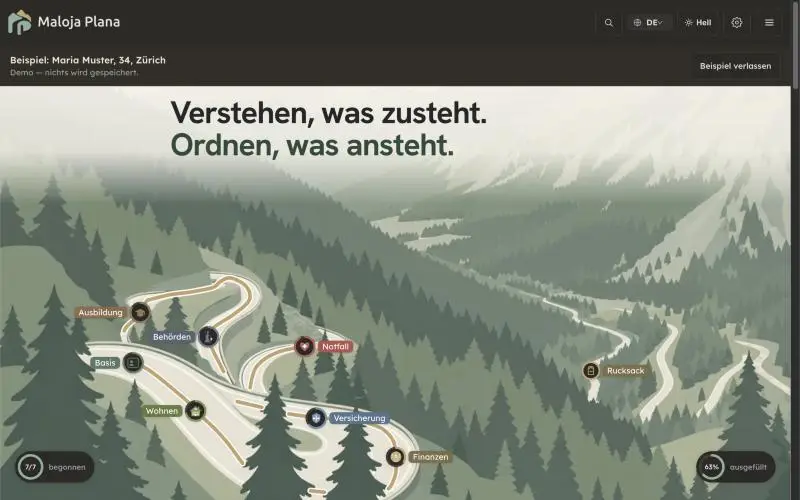
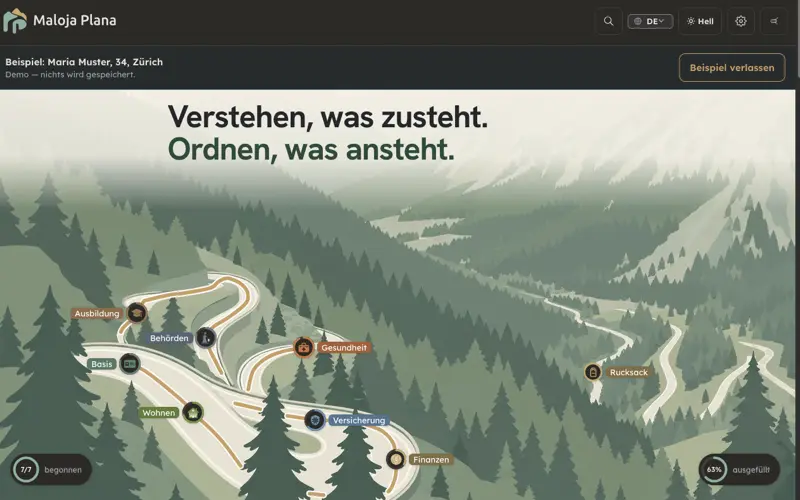
Startseite: Design-Durchgang A–M — eine Seitenfarbe, Stock im Passbild-Stil, ruhiger Ausklang
Stebler Studios 10.11.2026 «Ja, alle so» (Befunde stebler-studios/analysen/maloja-startseite-design-durchgang-2026-11-10.md):
A eine Seitenfarbe Creme #FCF0E4 (vorher vier Töne), Flächen #FFF8F0, Kontraste gemessen
B Stock, Weglinie und dunkle Schicht blenden im Ausklang aus
C Stock 86 % hoch und mittig (Desktop wie Handy)
D Handy: Textfläche frei vom Stock · E «KI-gemalt» links unten
F Karte von oben auf Inhaltsbreite, Linien laufen seitlich weich aus · G keine doppelte Luft vor der Papier-Karte
H Reiter «Kantone» · I gewählter Reiter rückt am Handy in Sicht · J Trennpunkt hängt am vorderen Wort
K Hero unter 960 px einspaltig · L Laptop-Bild neu aus dem Beispiel (Gesundheit statt Notfall)
M Stock-Probe übernommen (flach, Aufkleber rund, grosse Zeichen weiss)
Dazu: Hero-Nebenknöpfe im dunklen Modus hell, Papier-Höhenlinien im dunklen Modus umgekehrt.
Brand Book §7e nachgeführt, Wächter in vorstellungSeite.test.js.

diff --git a/website/index.html b/website/index.html
@@ -15,8 +15,8 @@
   <meta name="referrer" content="strict-origin-when-cross-origin">
   <meta name="robots" content="index, follow">
   <meta name="author" content="Stebler Studios">
-  <!-- Browserleiste je Farbschema (Granit, Brand Book §2) -->
-  <meta name="theme-color" content="#F2F2F0" media="(prefers-color-scheme: light)">
+  <!-- Browserleiste je Farbschema (hell: Creme des Passbilds, §7e A; dunkel: Granit) -->
+  <meta name="theme-color" content="#FCF0E4" media="(prefers-color-scheme: light)">
   <meta name="theme-color" content="#22211F" media="(prefers-color-scheme: dark)">
   <title>Maloja Plana — Schweizer Lebensordner</title>
   <meta name="description" content="Steuern, Prämienverbilligung, Vorsorge und Notfallkarte an einem Ort. Kostenlos, ohne Konto — was Sie eingeben, bleibt auf Ihrem Gerät.">
@@ -102,9 +102,14 @@
     @font-face{ font-family:'Hanken Grotesk'; src:url('/fonts/hanken-grotesk-latin-700-normal.woff2') format('woff2'); font-weight:700; font-display:swap }
     *{ margin:0; padding:0; box-sizing:border-box }
     :root{
-      --bg:#F2F2F0; --flaeche:#FBFBFA; --text:#24262A; --leise:#575B61;  /* dunkler als vorher (#6A6E74): Kleintext liest sich ruhiger */
-      --rand:#E0DDD8;
-      --himmel:#F4F0E6;                 /* Himmel der Landschaft — der Einstieg bleibt immer hell */
+      /* A · Eine Seitenfarbe (Design-Durchgang 10.11.2026): die Creme des Passbilds, «unser Stil». Vorher vier Töne
+         (#F2F2F0 Seite, #FCF0E4 Ausklang, #F4F0E6 Hero-Schleier, #FBFBFA Leiste) — man sah die Naht nach der Reise.
+         Flächen darauf (Karten, Leiste, Knöpfe) ein warmes Papier #FFF8F0. Kontraste gemessen: Text 13,5:1, leise 6,1:1,
+         Gold 5,3:1. Die App bleibt Granit. */
+      --bg:#FCF0E4; --flaeche:#FFF8F0; --text:#24262A; --leise:#575B61;
+      --rand:#E6DACB;
+      --himmel:#FCF0E4;                 /* Himmel der Landschaft = Seitenfarbe — der Einstieg bleibt immer hell */
+      --schleier:252,240,228;           /* dieselbe Creme als RGB für die hellen Schichten über dem Bild */
       --gehaeuse:#1B1A18; --gehaeuse-rand:#3A3936; --insel:#0E0E0D; --schirm:#22211F;
       --radius-m:12px;
       --abstand-m:32px; --abstand-l:96px;  /* 96 = 64 × 1.5, Kapitelstufe der Startseite (§7a B) */
@@ -180,10 +185,11 @@
     .pass h1 .zweite{ font-weight:600; color:#4E5258 }
     .pass .vorspann{ font-size:19px; max-width:28em; margin-top:22px; color:#3E4247 }
     .pass .fakten{ display:flex; flex-wrap:wrap; gap:6px 18px; margin-top:20px; font-size:15px; color:#24262A }
-    .pass .fakten span::before{ content:"·"; margin-right:18px; color:var(--sand-tief) }
-    .pass .fakten span:first-child::before{ content:none }
+    /* J · Der Trennpunkt hängt am vorderen Wort: bricht die Zeile um, beginnt die neue nie mit «·». */
+    .pass .fakten span{ white-space:nowrap }
+    .pass .fakten span:not(:last-child)::after{ content:"·" / ""; margin-left:18px; color:var(--sand-tief) }
     .pass .beta{ font-size:15px; color:#3E4247; margin-top:10px }
-    .pass .knopf.zweit{ background:#FBFBFA }
+    .pass .knopf.zweit{ background:#FFF8F0 }   /* der Hero bleibt immer hell, auch im dunklen Modus */
     /* Übergang zur Reise: Nebenknopf (leer, Rand sandDeep) auf heller Fläche, damit er auch über dem Bild lesbar bleibt. */
     .pass-weiter{ grid-column:1 / -1; justify-self:start }
     .pass-weiter::after{ content:"↓" / "" }
@@ -225,7 +231,7 @@
     @keyframes wechsel{ 0%{opacity:0} 6%{opacity:1} 20%{opacity:1} 26%{opacity:0} 100%{opacity:0} }
     #anhalten:checked ~ .geraete-bild .folge img, .buehne:hover .folge img{ animation-play-state:paused }
     .unter-telefon{ display:flex; flex-wrap:wrap; justify-content:center; gap:4px 14px; margin-top:14px;
-      font-size:13px; color:#3E4247; text-align:center; background:rgba(244,240,230,.82); padding:4px 12px; border-radius:20px }
+      font-size:13px; color:#3E4247; text-align:center; background:rgba(var(--schleier),.82); padding:4px 12px; border-radius:20px }
     .schalter{ cursor:pointer; text-decoration:underline; text-underline-offset:2px; padding:10px 2px; margin:-10px 0 }
     #anhalten:checked ~ .unter-telefon .schalter::before{ content:"✓ " / "" }
     #anhalten:focus-visible ~ .unter-telefon .schalter{ outline:2px solid var(--sand-tief); outline-offset:3px }
@@ -294,13 +300,13 @@
        den Kehren (weisse Schrift, mind. 62 % unter dem Text). Das Skript schaltet über data-hier um. */
     .reise-buehne::before, .reise-buehne::after{ content:""; position:absolute; inset:0; z-index:3; pointer-events:none }
     .reise-buehne::before{ opacity:0;
-      background:linear-gradient(180deg, rgba(244,240,230,.92) 0%, rgba(244,240,230,.4) 24%, rgba(244,240,230,0) 42%),
-                 linear-gradient(90deg, rgba(244,240,230,.94) 0%, rgba(244,240,230,.86) 44%, rgba(244,240,230,0) 70%) }
+      background:linear-gradient(180deg, rgba(var(--schleier),.92) 0%, rgba(var(--schleier),.4) 24%, rgba(var(--schleier),0) 42%),
+                 linear-gradient(90deg, rgba(var(--schleier),.94) 0%, rgba(var(--schleier),.86) 44%, rgba(var(--schleier),0) 70%) }
     .reise-buehne::after{
       background:linear-gradient(270deg, rgba(18,18,16,.68) 0%, rgba(18,18,16,.62) 44%, rgba(18,18,16,0) 66%),
                  linear-gradient(90deg, rgba(18,18,16,.32) 0%, rgba(18,18,16,0) 22%) }
     .js .reise-buehne[data-hier="-1"]::before{ opacity:1 } .js .reise-buehne[data-hier="-1"]::after{ opacity:0 }
-    html:not(.js) .reise-anfang{ background:rgba(244,240,230,.93) }
+    html:not(.js) .reise-anfang{ background:rgba(var(--schleier),.93) }
     .reise-wolken{ z-index:3 } .reise-linie, .reise-stock, .reise-quelle{ z-index:4 }
     .reise-linie{ position:absolute; left:clamp(24px, 5vw, 64px); top:14vh; height:70vh; width:auto; aspect-ratio:60/600; overflow:visible }
     .reise-linie .weg{ fill:none; stroke:#FBFBFA; stroke-width:2.4; stroke-linecap:round; stroke-dasharray:.1 9; opacity:.85 }
@@ -313,12 +319,12 @@
     .reise-linie .ort text{ fill:#FBFBFA; font-size:15px; font-weight:600; letter-spacing:.04em; paint-order:stroke; stroke:rgba(20,20,18,.7); stroke-width:4px; stroke-linejoin:round }
     /* D · Der Stock dreht sich um die eigene Achse: das Skript verschiebt Nägel und Maserung je nach Drehwinkel
        (vorne breit, an der Seite schmal, hinten weg). Kein Heranfahren, kein Zoom. */
-    .reise-stock{ position:absolute; left:50%; top:0; height:100%; width:auto; aspect-ratio:120/700; overflow:visible;
-      margin-left:calc(100vh * -120 / 700 / 2); margin-left:calc(100svh * -120 / 700 / 2) }
-    /* PROBE Passbild-Stil: zwei flache Töne wie die Hänge im Passbild, keine Maserung, kein Glanz */
+    /* C · 86 % der Bildhöhe, mittig — wie am Handy (vorher bildhoch, die Kappe stiess oben an und er wirkte wie ein Balken). */
+    .reise-stock{ position:absolute; left:50%; top:7%; height:86%; width:auto; aspect-ratio:120/700; overflow:visible;
+      margin-left:calc(86vh * -120 / 700 / 2); margin-left:calc(86svh * -120 / 700 / 2) }
+    /* M · Passbild-Stil (Stebler Studios 10.11.2026): zwei flache Töne wie die Hänge im Passbild, keine Maserung, kein Glanz */
     .reise-stock .holz{ fill:#C9B48E } .reise-stock .schatten{ fill:#A8936E }
     .reise-stock .riemen{ fill:#486054 } .reise-stock .spitze{ fill:#546C60 }
-    /* (Riemen und Spitze: oben in der Probe neu gesetzt) */
     .nagel{ transform-box:fill-box; transform-origin:50% 50% }
     .nagel .schild > *{ fill:#FCF0E4; stroke:inherit; stroke-width:3 }
     /* Auf jedem Stocknagel das Kapitel-Zeichen der App in der Kapitelfarbe, auf heller Plakette mit farbigem Rand
@@ -326,7 +332,12 @@
     .js .nagel{ opacity:0 } .js .nagel.dran{ opacity:1 }
     .js .reise-buehne[data-hier="-1"] .reise-stock, .js .reise-buehne[data-hier="-1"] .reise-linie,
     .js .reise-buehne[data-hier="-1"] .reise-wolken, .js .reise-buehne[data-hier="-1"] .reise-quelle{ opacity:0 }
-    .reise-quelle{ position:absolute; right:12px; bottom:10px; font-size:13px; color:#FBFBFA; background:rgba(20,20,18,.72); padding:2px 8px; border-radius:6px }
+    /* B · Nach der letzten Kehre gehen Stock, Weglinie und Bildhinweis mit dem Bild weg, statt über dem Ausklang zu schweben. */
+    .js .reise-buehne[data-ende] .reise-stock, .js .reise-buehne[data-ende] .reise-linie,
+    .js .reise-buehne[data-ende] .reise-wolken, .js .reise-buehne[data-ende] .reise-quelle,
+    .js .reise-buehne[data-ende]::after{ opacity:0 }
+    /* E · links unten: rechts lag das Schild am Handy unter der Stockspitze */
+    .reise-quelle{ position:absolute; left:12px; bottom:10px; font-size:13px; color:#FBFBFA; background:rgba(20,20,18,.72); padding:2px 8px; border-radius:6px }
     .reise-ablauf{ position:relative; z-index:5; margin-top:-100vh; margin-top:-100svh }
     .reise{ padding-top:0; color:#FBFBFA }
     /* Ausklang: nach der letzten Kehre verläuft das Bild ruhig ins Papier der Seite, statt hart abzubrechen. */
@@ -340,18 +351,25 @@
     .pass-blick img, .pass-band img{ display:block; width:100%; height:auto }
     .pass-band{ position:relative; margin:64px 0 }
     .pass-band .quelle{ font-size:13px; color:var(--leise); padding-top:8px }
-    .pass-band-karte{ margin:96px 0 0 }
+    /* Im dunklen Modus: die Papier-Linien (Tinte) hell umkehren, sonst verschwinden sie im dunklen Grund. */
+    @media (prefers-color-scheme: dark){ .pass-band img{ filter:invert(1) hue-rotate(180deg) brightness(.9) } }
+    /* G · Vor der Karte steht schon die Luft des Schlussabschnitts (96 px) — nicht noch einmal 96. */
+    .pass-band-karte{ margin:0 }
     .pass-band-karte img{ aspect-ratio:280/130; object-fit:cover }
     .pass-karte{ position:relative; background:#7E8F7B; color:#F6F2E8 }
-    .pass-karte-bild{ position:relative; aspect-ratio:280/130 }
+    /* F · Die Karte auf Inhaltsbreite (vorher randlos 1280 px und mehr); das Salbei bleibt randlos, die Linien laufen
+       an den Seiten weich aus statt mit harter Kante. */
+    .pass-karte-bild{ position:relative; aspect-ratio:280/130; max-width:1040px; margin:0 auto;
+      -webkit-mask-image:linear-gradient(90deg, transparent, #000 8%, #000 92%, transparent); mask-image:linear-gradient(90deg, transparent, #000 8%, #000 92%, transparent) }
     .pass-karte-bild img{ position:absolute; inset:0; width:100%; height:100%; object-fit:cover; object-position:50% 50%; display:block }
-    .pass-karte .hoehe{ position:absolute; left:57.7%; top:27%; margin:-10px 0 0 14px; font-size:15px; font-weight:600; letter-spacing:.02em;
+    .pass-karte .hoehe{ position:absolute; left:57.7%; top:27%; margin:-10px 0 0 14px; font-size:16px; font-weight:600; letter-spacing:.02em;
       text-shadow:0 0 6px rgba(85,104,90,.9) }
     .pass-karte figcaption{ display:flex; flex-wrap:wrap; justify-content:space-between; gap:4px 16px; padding-top:12px; font-size:15px }
     .pass-karte .quelle{ font-size:13px; opacity:.85 }
     .pass-karte-ende{ height:16vh; background:linear-gradient(#7E8F7B, var(--bg)) }
     @media (max-width:760px){
       .pass-karte-bild{ aspect-ratio:4/3 }
+      .pass-karte-bild{ -webkit-mask-image:none; mask-image:none }
       .pass-karte .hoehe{ left:62.5% }   /* gleicher Punkt bei 4:3, object-fit:cover um die Mitte (Rechnung im Brand Book §7e) */
     }
     /* B–D · Kehre: Zahl und Text rechts neben dem Stock */
@@ -361,17 +379,17 @@
     .reise-text{ max-width:28rem; text-shadow:0 1px 14px rgba(0,0,0,.45) }
     /* Statt einer grossen Zahl steht gross das Kapitel-Zeichen der App (wie Fujis grosse Höhenzahl): in der Kapitelfarbe
        auf heller Plakette, Ecke 16 px (Karte, Brand Book §7a C). */
-    .reise-gross{ width:clamp(84px, 9vw, 120px); aspect-ratio:1; color:#FBFBFA; margin:0 0 16px }   /* PROBE: ohne Kachel, weiss wie der Text (Rand verworfen) */
+    .reise-gross{ width:clamp(84px, 9vw, 120px); aspect-ratio:1; color:#FBFBFA; margin:0 0 16px }   /* M · ohne Kachel, weiss wie der Text (Rand verworfen, Stebler Studios 10.11.) */
     /* Zeichen mit weiss gezeichneten Details (Fünfliber, Haus): Details umkehren, sonst bleibt eine leere weisse Fläche */
     .reise-gross [fill="white"]{ fill:#2E3A33 } .reise-gross [stroke="white"]{ stroke:#2E3A33 }
     .reise-gross svg{ width:100%; height:auto; aspect-ratio:1; display:block }
     .reise-text .name{ display:block; font-size:15px; font-weight:600; color:#FBFBFA; margin-bottom:6px }
     .reise-text h3{ font-size:clamp(23px, 2.4vw, 28px); line-height:1.2; font-weight:700; letter-spacing:-0.01em; margin-bottom:10px }
     .reise-text p{ font-size:19px; line-height:1.55; color:#FBFBFA }
-    /* Knöpfe auf dem Bild: Nebenknopf auf Papier (deckend #FBFBFA, Schrift und Rand sandDeep, 10 px). Kein Milchglas (§7e). */
+    /* Knöpfe auf dem Bild: Nebenknopf auf Papier (deckend #FFF8F0, Schrift und Rand sandDeep, 10 px). Kein Milchglas (§7e). */
     .reise-knoepfe{ display:flex; flex-wrap:wrap; gap:10px; margin-top:22px }
     .reise-knoepfe a{ display:inline-flex; align-items:center; min-height:44px; padding:10px 20px; border-radius:var(--radius-knopf); text-decoration:none;
-      font-size:15px; font-weight:600; color:#7A5F30; border:1px solid #7A5F30; background:#FBFBFA; text-shadow:none }
+      font-size:15px; font-weight:600; color:#7A5F30; border:1px solid #7A5F30; background:#FFF8F0; text-shadow:none }
     .reise-knoepfe a:hover{ color:#7A5F30; background:#F2EDE3 }
     .reise-knoepfe a:focus-visible{ outline:2px solid #FBFBFA; outline-offset:3px; box-shadow:0 0 0 5px #24262A }
     .reise-knoepfe .weiter::after{ content:"↓" / ""; margin-left:8px }
@@ -392,11 +410,12 @@
       .reise-wolken{ display:none }
     }
     @media (max-width:760px){
-      .reise-buehne::before{ background:linear-gradient(180deg, rgba(244,240,230,.95) 0%, rgba(244,240,230,.9) 52%, rgba(244,240,230,.35) 78%, rgba(244,240,230,0) 92%) }
+      .reise-buehne::before{ background:linear-gradient(180deg, rgba(var(--schleier),.95) 0%, rgba(var(--schleier),.9) 52%, rgba(var(--schleier),.35) 78%, rgba(var(--schleier),0) 92%) }
       .reise-buehne::after{ background:linear-gradient(0deg, rgba(18,18,16,.74) 0%, rgba(18,18,16,.6) 40%, rgba(18,18,16,0) 70%) }
-      .reise-stock{ left:auto; right:6px; margin-left:0; height:86%; top:7% }
+      /* D · Stock ein Stück über den rechten Rand, damit die Textfläche ihn nicht mehr überdeckt (vorher etwa 12 px) */
+      .reise-stock{ left:auto; right:-30px; margin-left:0; height:86%; top:7% }
       .reise-linie{ display:none }
-      .reise-station{ align-items:center; padding:10vh 76px 10vh 16px }
+      .reise-station{ align-items:center; padding:10vh 84px 10vh 16px }
       .reise-gross{ width:64px; margin-bottom:12px }
       /* Am Handy wandert der Text durchs ganze Bild, auch über hellen Himmel: darum eine eigene dunkle Fläche (78 %, ohne Milchglas). */
       .reise-text{ background:rgba(20,20,18,.78); padding:18px 18px 20px; border-radius:16px }
@@ -471,18 +490,18 @@
     .fuss ul{ list-style:none } .fuss li a{ display:inline-block; padding:6px 0 }
     .fuss-zeile{ margin-top:32px; padding-top:16px; border-top:1px solid var(--rand); font-size:13px }
     .fuss .vertrauen{ display:flex; flex-wrap:wrap; gap:4px 16px; color:var(--text) }
-    .fuss .vertrauen span::before{ content:"·"; margin-right:16px; color:var(--sand-tief) }
-    .fuss .vertrauen span:first-child::before{ content:none }
+    .fuss .vertrauen span{ white-space:nowrap }
+    .fuss .vertrauen span:not(:last-child)::after{ content:"·" / ""; margin-left:16px; color:var(--sand-tief) }
 
     /* Zum Inhalt springen (wie in der App, .mp-skip-link): erst beim Fokus sichtbar. */
     .sprung{ position:absolute; z-index:20; left:16px; top:-80px; padding:10px 16px; border-radius:var(--radius-knopf);
-      background:#FBFBFA; color:#24262A; font-weight:600 }
+      background:#FFF8F0; color:#24262A; font-weight:600 }
     .sprung:focus{ top:12px }
     main:focus{ outline:none }
     html{ scroll-padding-top:64px }  /* Sprungziele landen unter der Leiste */
 
     /* B/C · Leiste: Papier mit Haarlinie (kein Milchglas), 56 px. Erscheinen 250 ms, Verschwinden ⅔ davon (§7a E). */
-    .leiste{ position:fixed; z-index:8; top:0; left:0; right:0; background:#FBFBFA; color:#24262A; border-bottom:1px solid #E0DDD8;
+    .leiste{ position:fixed; z-index:8; top:0; left:0; right:0; background:#FFF8F0; color:#24262A; border-bottom:1px solid #E6DACB;
       transform:translateY(-100%); visibility:hidden }
     .leiste[data-zustand="seite"]{ transform:none; visibility:visible }
     .leiste-innen{ display:flex; align-items:center; gap:20px; min-height:56px }
@@ -501,6 +520,9 @@
     }
     @media (max-width:960px){
       .pass h1{ font-size:38px }
+      /* K · Unter 960 px eine Spalte: daneben brach der Titel in vier Zeilen. Die Geräte stehen unter dem Text. */
+      .pass{ grid-template-columns:1fr; gap:32px; padding-top:112px; align-items:start }
+      .geraete{ justify-self:start }
       .holen{ grid-template-columns:1fr 1fr }
       .liste{ grid-template-columns:1fr 1fr }
     }
@@ -514,7 +536,7 @@
       .kopf nav, .leiste-links{ width:100%; gap:8px; overflow-x:auto; scrollbar-width:none; padding:4px 18% 4px 4px;
         -webkit-mask-image:linear-gradient(90deg, #000 82%, transparent); mask-image:linear-gradient(90deg, #000 82%, transparent) }
       .kopf nav a, .leiste-links a{ flex:none; display:inline-flex; align-items:center; min-height:44px; padding:0 14px;
-        border:1px solid rgba(36,38,42,.28); border-radius:var(--radius-knopf); background:rgba(251,251,250,.75); text-decoration:none }
+        border:1px solid rgba(36,38,42,.28); border-radius:var(--radius-knopf); background:rgba(255,248,240,.75); text-decoration:none }
       .kopf nav a:focus-visible, .leiste-links a:focus-visible{ outline-offset:-3px }
       .leiste-links a[aria-current="location"]{ background:#C4A06A; border-color:#C4A06A; color:#2A2620; text-decoration:none }
       .leiste-innen{ flex-wrap:wrap; gap:6px 12px; padding-block:6px }
@@ -552,6 +574,7 @@
       <nav aria-label="Hauptmenü">
         <a href="#weg">Kapitel</a>
         <a href="#situationen">Situationen</a>
+        <a href="#atlas">Kantone</a>
         <a href="#holen">App holen</a>
         <a href="/app/">Öffnen</a>
       </nav>
@@ -566,6 +589,7 @@
       <div class="leiste-links">
         <a href="#weg">Kapitel</a>
         <a href="#situationen">Situationen</a>
+        <a href="#atlas">Kantone</a>
         <a href="#holen">App holen</a>
         <a href="/app/">Öffnen</a>
       </div>

diff --git a/src/__tests__/vorstellungSeite.test.js b/src/__tests__/vorstellungSeite.test.js
@@ -178,7 +178,7 @@ describe('Vorstellungsseite: Die Reise (A–F)', () => {
     KAPITEL.forEach((k, i) => expect(html).toContain(`Kehre ${i + 1} von 7 · ${k.name}`));
   });
 
-  it('B/D · jeder Stocknagel ist ein Aufkleber mit dem Kapitel-Zeichen, flach im Passbild-Stil (PROBE 10.11.: rund, gerade, ohne Schatten und Wölbung)', () => {
+  it('B/D · jeder Stocknagel ist ein Aufkleber mit dem Kapitel-Zeichen, flach im Passbild-Stil (10.11.: rund, gerade, ohne Schatten und Wölbung)', () => {
     const naegel = html.split('<g class="nagel">').slice(1).map((t) => t.split('<g class="nagel-dreh"')[0].split('</svg>\n')[0]);
     expect(naegel).toHaveLength(7);
     for (const n of naegel) {
@@ -284,8 +284,63 @@ describe('Vorstellungsseite: Kopf, Leiste, Fuss', () => {
     expect(html).toMatch(new RegExp(`<input type="checkbox" id="anhalten"[^>]*>\\s*<div class="${sel.replace('.', '')}"`));
   });
 
-  it('Browserleiste hell und dunkel nach Granit', () => {
-    expect(html).toContain('<meta name="theme-color" content="#F2F2F0" media="(prefers-color-scheme: light)">');
+  // Design-Durchgang 10.11.2026 (Stebler Studios «Ja, alle so», Befunde A–M), Brand Book §7e.
+  it('A · eine Seitenfarbe: die Creme des Passbilds, auch Ausklang und Hero-Schleier; kein Granit-Grau mehr', () => {
+    const wurzel = stil.match(/:root\{([\s\S]*?)\n    \}/)[1];
+    expect(wurzel).toContain('--bg:#FCF0E4;');
+    expect(wurzel).toContain('--himmel:#FCF0E4;');
+    expect(wurzel).toContain('--schleier:252,240,228;');
+    const regeln = stil.replace(/\/\*[\s\S]*?\*\//g, '');   // Kommentare nennen die alten Töne als Historie
+    expect(regeln).not.toMatch(/rgba\(244,240,230/);
+    expect(regeln).not.toMatch(/#F2F2F0/i);
+    expect(stil).toMatch(/\.leiste\{[^}]*background:#FFF8F0/);
+  });
+
+  it('A · im dunklen Modus bleibt der Hero hell: seine Nebenknöpfe tragen festes Papier, keine Variable', () => {
+    expect(stil).toContain('.pass .knopf.zweit{ background:#FFF8F0 }');
+  });
+
+  it('B · nach der letzten Kehre gehen Stock, Weglinie und dunkle Schicht mit dem Bild weg', () => {
+    expect(js).toContain("buehne.setAttribute('data-ende', '')");
+    for (const teil of ['.reise-stock', '.reise-linie', '.reise-quelle']) expect(stil).toContain(`.js .reise-buehne[data-ende] ${teil}`);
+    expect(stil).toContain('.js .reise-buehne[data-ende]::after{ opacity:0 }');
+  });
+
+  it('C · der Stock ist 86 % hoch und mittig, nicht bildhoch', () => {
+    expect(stil).toMatch(/\.reise-stock\{ position:absolute; left:50%; top:7%; height:86%;/);
+    expect(stil).toContain('margin-left:calc(86svh * -120 / 700 / 2)');
+  });
+
+  it('D/E · am Handy lässt die Textfläche den Stock frei, «KI-gemalt» steht links unten', () => {
+    expect(handy).toContain('.reise-station{ align-items:center; padding:10vh 84px 10vh 16px }');
+    expect(handy).toMatch(/\.reise-stock\{ left:auto; right:-30px;/);
+    expect(stil).toMatch(/\.reise-quelle\{ position:absolute; left:12px;/);
+  });
+
+  it('F/G · die Karte von oben steht auf Inhaltsbreite, vor der Papier-Karte keine doppelte Luft', () => {
+    expect(stil).toMatch(/\.pass-karte-bild\{[^}]*max-width:1040px; margin:0 auto;/);
+    expect(stil).toContain('.pass-band-karte{ margin:0 }');
+  });
+
+  it('H/I · Reiter «Kantone» in Kopf und Leiste; am Handy rückt der gewählte Reiter in Sicht', () => {
+    expect(html.match(/<a href="#atlas">Kantone<\/a>/g)).toHaveLength(2);
+    expect(js).toContain('function inSicht(a)');
+    expect(js).toContain('if (aktuell) inSicht(aktuell)');
+  });
+
+  it('J · der Trennpunkt hängt am vorderen Wort (Hero und Fuss), keine Zeile beginnt mit «·»', () => {
+    expect(stil).toContain('.pass .fakten span:not(:last-child)::after{');
+    expect(stil).toContain('.fuss .vertrauen span:not(:last-child)::after{');
+    expect(stil).not.toMatch(/(fakten|vertrauen) span::before/);
+  });
+
+  it('K · unter 960 px steht der Hero in einer Spalte', () => {
+    const tablet = stil.slice(stil.indexOf('@media (max-width:960px)'));
+    expect(tablet.slice(0, tablet.indexOf('\n    }'))).toContain('.pass{ grid-template-columns:1fr;');
+  });
+
+  it('Browserleiste hell nach der Seitenfarbe, dunkel nach Granit', () => {
+    expect(html).toContain('<meta name="theme-color" content="#FCF0E4" media="(prefers-color-scheme: light)">');
     expect(html).toContain('<meta name="theme-color" content="#22211F" media="(prefers-color-scheme: dark)">');
   });
 

diff --git a/website/reise.js b/website/reise.js
@@ -48,6 +48,10 @@
     var k = 0, s = stationen[Math.max(0, hier)];
     if (s) { var r = (s.querySelector('.reise-text') || s).getBoundingClientRect(); k = Math.min(1, Math.max(0, (schwelle - r.top) / h)); }
     buehne.setAttribute('data-hier', String(hier));
+    // B · Ist der Text der letzten Kehre oben hinaus, gehen Stock und Weglinie mit dem Bild weg (Ausklang).
+    var letzte = stationen[stationen.length - 1];
+    var ende = !!letzte && letzte.getBoundingClientRect().bottom <= h * 0.85;
+    if (ende !== buehne.hasAttribute('data-ende')) { if (ende) buehne.setAttribute('data-ende', ''); else buehne.removeAttribute('data-ende'); }
     bildZeigen(hier + 1);
     naegel.forEach(function (n, i) { n.classList.toggle('dran', i <= hier); });
     punkte.forEach(function (p, i) { p.classList.toggle('hier', i === hier); p.classList.toggle('gegangen', i < hier); });
@@ -83,6 +87,17 @@
       if (el && el.getBoundingClientRect().top <= h * 0.4) aktuell = a;
     });
     leisteLinks.forEach(function (a) { if (a === aktuell) a.setAttribute('aria-current', 'location'); else a.removeAttribute('aria-current'); });
+    if (aktuell !== bisherLink) { bisherLink = aktuell; if (aktuell) inSicht(aktuell); }
+  }
+  // I · Am Handy ist die Zeile wischbar und rechts leise ausgeblendet: den gewählten Reiter in den klaren Teil rücken.
+  // Nur waagrecht in der eigenen Zeile, die Seite selbst scrollt nicht mit.
+  var bisherLink = null;
+  function inSicht(a) {
+    var zeile = a.parentNode;
+    if (!zeile || zeile.scrollWidth <= zeile.clientWidth) return;
+    var z = zeile.getBoundingClientRect(), r = a.getBoundingClientRect(), klar = z.right - z.width * 0.18;
+    if (r.right > klar) zeile.scrollLeft += r.right - klar + 4;
+    else if (r.left < z.left) zeile.scrollLeft -= z.left - r.left + 4;
   }
 
   // Der Stock: Nägel rundum (je 1/7 Drehung), Maserung als feine Streifen. Vorne breit, seitlich schmal, hinten weg.

diff --git a/docs/brand/brand-guidelines.md b/docs/brand/brand-guidelines.md
@@ -380,26 +380,27 @@ Richtung «Stationen sammeln» (Vorbild «Collecting Stamps on Mt. Fuji»): nur 
 | Regel | Wie |
 |---|---|
 | **Anfang = Hero (A/B)** | Kopfzeile und Hero liegen auf dem Passbild, und dieses Bild ist zugleich Bild 0 der Reise-Bühne: dunkle Schrift auf heller Schicht, darunter folgen ohne Umweg die sieben Kehren. Am Handy liegt der Text ebenso auf dem Bild. Der Übergang heisst «Sieben Kapitel, Kehre für Kehre» (Nebenknopf). Die Situationen kommen nach der Reise. *(Bis 10.11. mittags: eigener Nacht-Bildschirm mit Ring «Losgehen» — abgelöst.)* |
-| **Geräte (C)** | im Hero ein Laptop mit der App am Computer und davor rechts ein Telefon mit der Bildfolge; beide «im Beispiel mit erfundenen Daten» |
+| **Geräte (C)** | im Hero ein Laptop mit der App am Computer und davor rechts ein Telefon mit der Bildfolge; beide «im Beispiel mit erfundenen Daten». Laptop-Bild neu aufgenommen 10.11.2026 abends aus dem Beispiel (1280 × 800, dunkel, Deutsch, ohne Tour), mit «Gesundheit» statt «Notfall» |
 | **Bühne** | je Kehre ein eigenes gemaltes Bild, vom Talboden im Bergell über die Serpentinen bis zum Silsersee oben am Pass; randlos, klebt beim Scrollen. Zurzeit KI-gezeichnet **im Stil des Passbilds** (seit 10.11.2026 abends, Stebler Studios: «unser Stil» = das Maloja-Passbild): flache Farbflächen ohne Pinsel und Verlauf, Salbei `#3E5448`–`#C9D0BE`, Himmel und Strasse Creme `#FCF0E4`/`#ECE7D8`, Tannen als zweitönige Silhouetten, hintere Ketten heller; Lärchengold nur als sparsamer Akzent `#C4A870` (Kehre 3). Figma «Maloja Reise · Bilder» Knoten 5:2 und 6:2–6:7, gpt-image-2.5-flare; Quellen und WebP in `stebler-studios/analysen/maloja-reise-bilder/passbild-stil/`. *(Bis 10.11. abends: lockerer Aquarell-Gouache-Stil — wirkte zu sehr nach Fuji.)* und so beschriftet; später echte Malerei. Das Passbild lädt sofort, die Kehren-Bilder erst kurz vor ihrer Kehre |
 | **Bildwechsel (E)** | das neue Bild kommt als **Pinselstrich**, der von links nach rechts quer übers Bild wischt (Maske mit ausgefranster Kante, eigene Form, 1,1 s, Kurve `cubic-bezier(.4,0,.2,1)`); darüber ziehen leise Wolken. Kein Wachsen aus der Mitte (wirkte wie Zoomen) |
 | **Kehre = Kapitel** | sieben Kehren in der Reihenfolge der App (`CHAPTER_KEYS`), Kapitelfarben aus `lebensbereiche.js`; an jeder Kehre das **Kapitel-Zeichen der App** (Leitform aus `seitenZeichen.js`, erzeugt aus `IconAbzeichen.jsx` nach `scripts/seiten/kapitel-zeichen.mjs`, nie nachgezeichnet) |
-| **Sammelobjekt (B/D)** | Wanderstock in der Mitte, mit Licht- und Schattenkante; je erreichter Kehre ein **Aufkleber**, wie man sie an einen Wanderstock klebt: Formen wechseln (Schild, Rechteck mit runden Ecken, Kreis, Oval), je leicht schräg (bis ±8°), weisser Grund mit Rand in der Kapitelfarbe, darunter ein Schatten, darüber eine Wölbung (das Holz ist rund); darauf das **Kapitel-Zeichen der App**. Die Aufkleber sitzen **rundum** (je 1/7 Drehung) |
-| **Text (C)** | weiss **direkt auf dem Bild**, rechts neben dem Stock; darunter eine dunkle Schicht, die unter dem Text mindestens 62 % deckt (Text und Kehren-Zeile reines Weiss #FBFBFA). Am Handy eigene dunkle Fläche 78 % **ohne Milchglas**. Zwei Nebenknöpfe auf **Papier** (deckend `#FBFBFA`, Schrift und Rand sandDeep, **10 px**, keine Pillen): «… im Beispiel ansehen» und «Weiter» (zur nächsten Kehre, zuletzt «Weiter: App holen») |
-| **Grosses Zeichen (D)** | statt einer grossen Zahl steht gross das **Kapitel-Zeichen** über dem Text: helle Plakette, Ecke 16 px, Zeichen in der Kapitelfarbe, `aria-hidden`; die Information steht als Text «Kehre n von 7». *(Bis 10.11. mittags: grosse Zahl 01–07 — doppelte sich mit «Kehre n von 7».)* **Keine Höhenangaben ohne Quelle** |
+| **Sammelobjekt (B/D)** | Wanderstock in der Mitte, **flach im Passbild-Stil** (seit 10.11.2026 abends): Holz `#C9B48E` mit einer Schattenkante `#A8936E`, Riemen `#486054`, Spitze `#546C60`, keine Maserung, kein Glanz. **86 % der Bildhöhe, mittig** (Desktop wie Handy; vorher bildhoch, wirkte wie ein Balken). Je erreichter Kehre ein **Aufkleber**: alle rund und gerade, Grund Creme `#FCF0E4`, Rand in der Kapitelfarbe, ohne Schatten und Wölbung; darauf das **Kapitel-Zeichen der App**. Die Aufkleber sitzen **rundum** (je 1/7 Drehung). *(Bis 10.11. abends: wechselnde Formen, schräg, mit Schatten und Wölbung — «zu komisch».)* Nach der letzten Kehre gehen Stock, Weglinie, Bildhinweis und dunkle Schicht mit dem Bild weg (Ausklang) |
+| **Text (C)** | weiss **direkt auf dem Bild**, rechts neben dem Stock; darunter eine dunkle Schicht, die unter dem Text mindestens 62 % deckt (Text und Kehren-Zeile reines Weiss #FBFBFA). Am Handy eigene dunkle Fläche 78 % **ohne Milchglas**, rechts frei bis zum Stock (Abstand 84 px, der Stock ragt 30 px über den Rand). Zwei Nebenknöpfe auf **Papier** (deckend `#FFF8F0`, Schrift und Rand sandDeep, **10 px**, keine Pillen): «… im Beispiel ansehen» und «Weiter» (zur nächsten Kehre, zuletzt «Weiter: App holen») |
+| **Grosses Zeichen (D)** | statt einer grossen Zahl steht gross das **Kapitel-Zeichen** über dem Text: **weiss wie der Text, ohne Kachel und ohne Rand**; Details, die im Zeichen weiss gezeichnet sind (Fünfliber, Haus), werden dunkel `#2E3A33` umgekehrt, sonst bliebe eine leere Scheibe; `aria-hidden`. *(Bis 10.11. abends: helle Plakette, Ecke 16 px.)* die Information steht als Text «Kehre n von 7». *(Bis 10.11. mittags: grosse Zahl 01–07 — doppelte sich mit «Kehre n von 7».)* **Keine Höhenangaben ohne Quelle** |
 | **Weglinie (D)** | links im Bild, gepunktet, der gegangene Teil durchgezogen; an jedem Halt das **Kapitel-Zeichen** auf heller Scheibe mit Rand in der Kapitelfarbe, die aktuelle Kehre mit Ring in Sand und dem Kapitelnamen. Sie ist während der Reise die einzige Ortsangabe (keine Leiste oben) |
 | **Bewegung** | Pinselstrich, Nagel «schlägt an» (0,6 s) und Wolken nur ohne «weniger Bewegung». **Die Kamera kreist um den Stock** (wie bei Fuji die Perspektive, nicht der Stock allein): zwischen zwei Aufklebern wandert das Bild seitlich mit (bis 6 %) und das Licht gleitet übers Holz; steht ein Aufkleber vorn, ruht beides. Mit «weniger Bewegung» wechseln Bild, Aufkleber und Ort genauso, ohne Kamerafahrt. Ohne Skript: helle Hero-Fläche, alle Aufkleber vorn, Passbild bleibt stehen. Keine Vergrösserung über §8 hinaus |
 | **Seite sonst (F)** | genau **ein Hauptknopf** (im Hero), alle übrigen Nebenknöpfe; Auswahl-Chips gewählt Sand gefüllt, 10 px; Links Gold (sandDeep) unterstrichen, auch im Fuss; Bildmarke in der Kopfzeile einfarbig Anthrazit (§4) |
-| **Kopf (A)** | liegt auf dem Passbild und scrollt mit weg. Am Handy wird die Navigation zur **wischbaren Zeile** (Knöpfe 44 px, 10 px, leiser Verlauf am rechten Rand), sie verschwindet nie. Erster Link: «Zum Inhalt springen». Browserleiste je Farbschema (`#F2F2F0` / `#22211F`) |
-| **Leiste (C)** | erscheint erst **nach der Reise**: Papier `#FBFBFA` mit Haarlinie, 56 px, **kein Milchglas**, Seiten-Links mit dem aktuellen Abschnitt (unterstrichen, am Handy Sand gefüllt). Erscheinen 250 ms, Verschwinden 150 ms (§7a E); ohne Skript gibt es sie nicht. *(Bis 10.11. nachmittags auch während der Reise mit «Kehre n von 7» und Punkten — abgelöst, die Weglinie zeigt den Ort.)* |
+| **Kopf (A)** | liegt auf dem Passbild und scrollt mit weg. Am Handy wird die Navigation zur **wischbaren Zeile** (Knöpfe 44 px, 10 px, leiser Verlauf am rechten Rand), sie verschwindet nie. Erster Link: «Zum Inhalt springen». Browserleiste je Farbschema (`#FCF0E4` / `#22211F`). Unter 960 px steht der Hero **in einer Spalte**, die Geräte unter dem Text (daneben brach der Titel am Tablet in vier Zeilen). In der Zeile «Kostenlos · Ohne Konto …» hängt der Trennpunkt am vorderen Wort, eine neue Zeile beginnt nie mit «·» (ebenso im Fuss) |
+| **Leiste (C)** | erscheint erst **nach der Reise**: Papier `#FFF8F0` mit Haarlinie `#E6DACB`, 56 px, **kein Milchglas**, Seiten-Links Kapitel · Situationen · **Kantone** (seit 10.11. abends, sonst blieb im Atlas der falsche Reiter markiert) · App holen · Öffnen, mit dem aktuellen Abschnitt (unterstrichen, am Handy Sand gefüllt; am Handy rückt der gewählte Reiter von selbst in den klaren Teil der Zeile). Erscheinen 250 ms, Verschwinden 150 ms (§7a E); ohne Skript gibt es sie nicht. *(Bis 10.11. nachmittags auch während der Reise mit «Kehre n von 7» und Punkten — abgelöst, die Weglinie zeigt den Ort.)* |
 | **Fuss (D/E)** | heller Grund mit Haarlinie (kein dunkles Band), drei Spalten: **Marke** (Bildmarke Anthrazit, führt nach oben, ein Satz, Mail) · **Entdecken** (Beispiel, Kapitel, App holen, Erklärseiten) · **Rechtliches** (Impressum/Datenschutz/Haftung, AGPL, Quellcode, Problem melden). Darunter die Vertrauenszeile «Ohne Konto · Ohne Werbung · Ihre Angaben bleiben auf dem Gerät», die Sprachen der App und der Vorbehalt. Vorbild: Fuss von Healing & Balance und der Erklärseiten. *(Die Erklärseiten haben noch ihren eigenen Fuss aus `build-seiten.mjs`; eine gemeinsame Quelle ist ein späterer Schritt.)* |
 | **Pass von oben (Karte, A1 «Salbei»)** | nach der letzten Kehre derselbe Weg **von oben**: echte Höhenlinien alle 20 m (jede 100-m-Linie kräftiger) aus swissALTI3D 2023 und die **echte Passstrasse** mit ihren Kehren (Hauptstrasse 3, OpenStreetMap), Ausschnitt 2,8 × 1,3 km. Farben aus dem Bild: Grund Salbei `#7E8F7B`, Linien Papier `#F6F2E8` 55 %, Strasse hell `#ECE7D8` mit Rand Tannengrün `#55685A`. Beschriftet nur «Passhöhe 1815 m» (= höchster Strassenpunkt in den Höhendaten, deckt sich mit der amtlichen Passhöhe) und die Quelle «Höhen © swisstopo · Strasse © OpenStreetMap» — Pflicht, auch bei jedem Neuzeichnen. Ausgeliefert als **fertige SVG** (`public/vorstellung/pass-karte.svg`, `loading="lazy"`), kein Rechnen im Browser; Erzeuger und Herkunft in `docs/design/pass-karte/`. Am Handy 4:3 statt 280:130, das Etikett sitzt dann bei 62,5 % statt 57,7 % (object-fit:cover um die Mitte). **Warum:** gemalte Kehren und wirkliche Kehren finden zusammen; Linien *über* dem gemalten Bild (Probe K) passten nicht, weil Karte (von oben) und Bild (schräg, gemalt) nicht deckungsgleich sind |
 | **Vier Höhenlinien-Bilder** *(10.11.2026 abends, «beide behalten» + «unsere Ansicht»)* | zwei Blickwinkel × zwei Farben, jede Variante **genau einmal**: **C** Blick von der Seite in Salbei (Himmel Creme `#FCF0E4`, Gelände `#7E8F7B`, Linien Papier, Gratlinie kräftiger) direkt nach Kehre 7, dann **A** die Karte von oben in Salbei — zusammen ein Band «oben angekommen». **D** Blick von der Seite auf Papier (Tinte) vor «App holen». **B** Karte von oben auf Papier (Tinte, Strasse Tannengrün) vor dem Fuss. Der Blick hat **die Perspektive des Kopfbilds** (Stebler Studios 10.11. abends: «die Höhenlinien sollen übers Kopfbild passen, nur separat»). Das Kopfbild stammt aus eigenen Fotos vom Malojapass (`src/assets/berge/_QUELLE.md`); der Standort wurde am Foto gesucht (`suche.mjs`: Kehren Mitte-links unten, ganz sichtbar, Strasse danach rechts unten) und von Hand nachgestellt: Kamera LV95 2773650/1140950 auf 1967 m (gleich östlich über den obersten Kehren), Blick nach Westsüdwest Richtung 2769450/1138700, 72°. Nähe aus dem 10-m-Raster (Kehren), Ferne aus dem 25-m-Raster; verdeckte Linien weggelassen, Passstrasse wie auf der Karte (`docs/design/pass-karte/schraeg.mjs`). Am Blick nie Höhenzahlen |
-| **Ausklang und Abstände** | nach der letzten Kehre verläuft das Bild auf 45 % der Bildhöhe ins **Creme des Himmels von C** (seit 10.11.2026 abends; vorher ins Papier), nach der Karte in 16 % der Bildhöhe ins Papier der Seite (kein harter Schnitt). Abschnitte der Startseite 96 px (= 64 × 1.5, Kapitelstufe nach §7a B), am Handy 64; Spalten 64 |
+| **Seitenfarbe** | **eine** Farbe für die ganze Startseite: die Creme des Passbilds `#FCF0E4` (Design-Durchgang 10.11.2026, A). Flächen darauf (Karten, Leiste, Knöpfe auf dem Bild, «Zum Inhalt springen») warmes Papier `#FFF8F0`, Haarlinie `#E6DACB`. Gemessen auf Creme: Text `#24262A` 13,5:1, leise `#575B61` 6,1:1, Gold `#7A5F30` 5,3:1. Der Hero-Schleier ist dieselbe Creme. *(Bis 10.11. abends vier Töne: `#F2F2F0` Seite, `#FCF0E4` Ausklang, `#F4F0E6` Schleier, `#FBFBFA` Leiste — man sah die Naht nach der Reise.)* Die App bleibt Granit. Dunkler Modus unverändert `#22211F`; die Papier-Höhenlinien werden dort hell umgekehrt |
+| **Ausklang und Abstände** | nach der letzten Kehre verläuft das Bild auf 45 % der Bildhöhe ins **Creme des Himmels von C** (= Seitenfarbe), nach der Karte in 16 % der Bildhöhe in die Seitenfarbe (kein harter Schnitt). Die Karte von oben steht auf **Inhaltsbreite** (höchstens 1040 px, Linien laufen seitlich weich aus; das Salbei bleibt randlos), «Passhöhe 1815 m» 16 px. Vor der Karte auf Papier keine zweite Luft: der Schlussabschnitt bringt seine 96 px schon mit. Bildhinweis «KI-gemalt» links unten. Abschnitte der Startseite 96 px (= 64 × 1.5, Kapitelstufe nach §7a B), am Handy 64; Spalten 64 |
 | **Schrift (Startseite)** | wie §3: **Titel in Hanken Grotesk** (h2/h3 700/600), alles andere Lexend; Grössen nur aus der Skala 13 · 15 · 16 · 19 · 23 · 28 · 36, einzige Ausnahme der h1 im Hero (48, Tablet 38, Handy 32). Keine Versalien-Etiketten (wirken wie SaaS-«Eyebrows»), Etiketten 15 px normal. Kleintext mindestens 15, Fliesstext 16; Zweitfarbe hell `#575B61`. KI-Bilder am Bild nur «KI-gemalt», der ganze Satz im Fuss. Wächter `vorstellungSeite.test.js` («Schrift») |
 | **Kein Zwang** | Nägel sind Zeichen, keine Punkte; nichts wird gespeichert |
 
-Entschieden von Stebler Studios am 10.11.2026 («näher an Fuji», alle fünf Punkte A–E nach Skizze; danach «Ja, alles so» zu A–F: Hero und Reise vereint, Laptop + Telefon, Drehen statt Zoom, Pinselstrich quer, Brand Book auf der ganzen Seite; dann «Alle, A bis E» zu Kopf, Leiste und Fuss nach der Durchsicht der eigenen Projekte, `stebler-studios/analysen/maloja-startseite-abschauen-2026-11-10.md`).
+Entschieden von Stebler Studios am 10.11.2026 («näher an Fuji», alle fünf Punkte A–E nach Skizze; danach «Ja, alles so» zu A–F: Hero und Reise vereint, Laptop + Telefon, Drehen statt Zoom, Pinselstrich quer, Brand Book auf der ganzen Seite; dann «Alle, A bis E» zu Kopf, Leiste und Fuss nach der Durchsicht der eigenen Projekte, `stebler-studios/analysen/maloja-startseite-abschauen-2026-11-10.md`; zuletzt «Ja, alle so» zum Design-Durchgang A–M: eine Seitenfarbe, Stock im Passbild-Stil und 86 % hoch, Ausklang ohne Stock, Handy-Fläche frei, Karte auf Inhaltsbreite, Reiter «Kantone», Tablet-Hero einspaltig, neues Laptop-Bild, `stebler-studios/analysen/maloja-startseite-design-durchgang-2026-11-10.md`).
 
 ## 8. Calm-UX-Prinzipien
 
